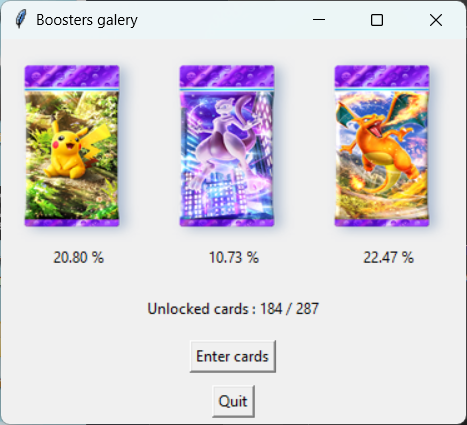
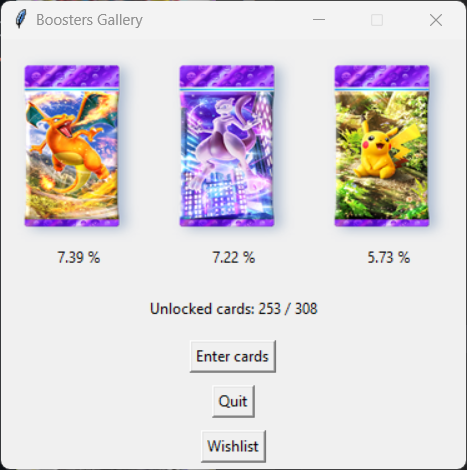
Update the READ.me

diff --git a/code/windows/main_window.py b/code/windows/main_window.py
@@ -85,6 +85,8 @@ def create_buttons(root, user_cards):
 
     Button(root, text="Enter cards", command=on_enter_cards).pack(pady=5)
     Button(root, text="Quit", command=on_quit).pack(pady=5)
+    # Ajouter un bouton 'wishlist' pour afficher la liste des souhaits
+    Button(root, text="Wishlist", command=lambda: show_wishlist(root)).pack(pady=5)
     return user_cards
 
 
@@ -104,6 +106,8 @@ def init_cards_owned():
         json_list[dir] = {}
     return json_list
 
+def save_data(user_cards):
+    write_json(user_cards, os.path.join(get_path(), 'user', 'cards_owned.json'))
 
 def main_loop(user_cards=None):
     """The main loop for the app"""
@@ -111,6 +115,8 @@ def main_loop(user_cards=None):
         user_cards = read_json(path + r'\user\cards_owned.json')
     if user_cards == {}:
         user_cards = init_cards_owned()
+
+    save_data(user_cards)
     
     root = create_main_window()  # Crée la fenêtre principale
 
@@ -121,13 +127,8 @@ def main_loop(user_cards=None):
     display_card_info(root, user_cards, get_all_cards_data())
     user_cards = create_buttons(root, user_cards)
 
-    # Ajouter un bouton 'wishlist' pour afficher la liste des souhaits
-    wishlist_button = tk.Button(root, text="Wishlist", command=lambda: show_wishlist(root))
-    wishlist_button.pack(side=tk.BOTTOM, pady=20)  # Placer le bouton en bas de la fenêtre principale
-
     root.mainloop()
-
-    write_json(user_cards, os.path.join(path, 'user', 'cards_owned.json'))
+    save_data(user_cards)
 
 
 def show_wishlist(root):

diff --git a/code/windows/enter_cards.py b/code/windows/enter_cards.py
@@ -229,6 +229,6 @@ def display_cards(owned_cards):
 
     return owned_cards
 
-def finish(root):
+def finish(root):    
     root.quit()
     root.destroy()

diff --git a/README.md b/README.md
@@ -16,5 +16,26 @@ There are all the cards that are currently in game, in colors if owned, in grey 
 
 By pressing a card, you can add it or remove it from your collection.
 
+## Wishlists section
+
+The goal of the wishlists is to create some sets of cards you need, for collection or combat purposes for instance.
+
+![Wishlist](assets/wishlist_before_adding.png)
+
+You can add manually some cards by typing their name and selecting it.
+You can remove a card from the wishlist by clicking on it.
+
+![Wishlist](assets/wishlist_after_adding.png)
+
+You can save your wishlist at anytime, or import one of the preset wishlists.
+They load all the cards you need to complete some missions (I've implemented the Mew mission and every rarity missions)
+
+![Wishlist](assets/wishlist_mission_selection.png)
+
+Once you have loaded a wishlist, you can generate the probabilities of getting its cards in every booster. 
+(CAUTION: the shown probabilities are not the exact probabilities of getting a new card, I need to normalise the data, it's going to be fixed for the next release !)
+
+![Wishlist](assets/wishlist_recommandations.png)
+
 Used languages: Python
 Librairies: os, Tkinter, PIL, json, pandas, io, bs4, re, sys
